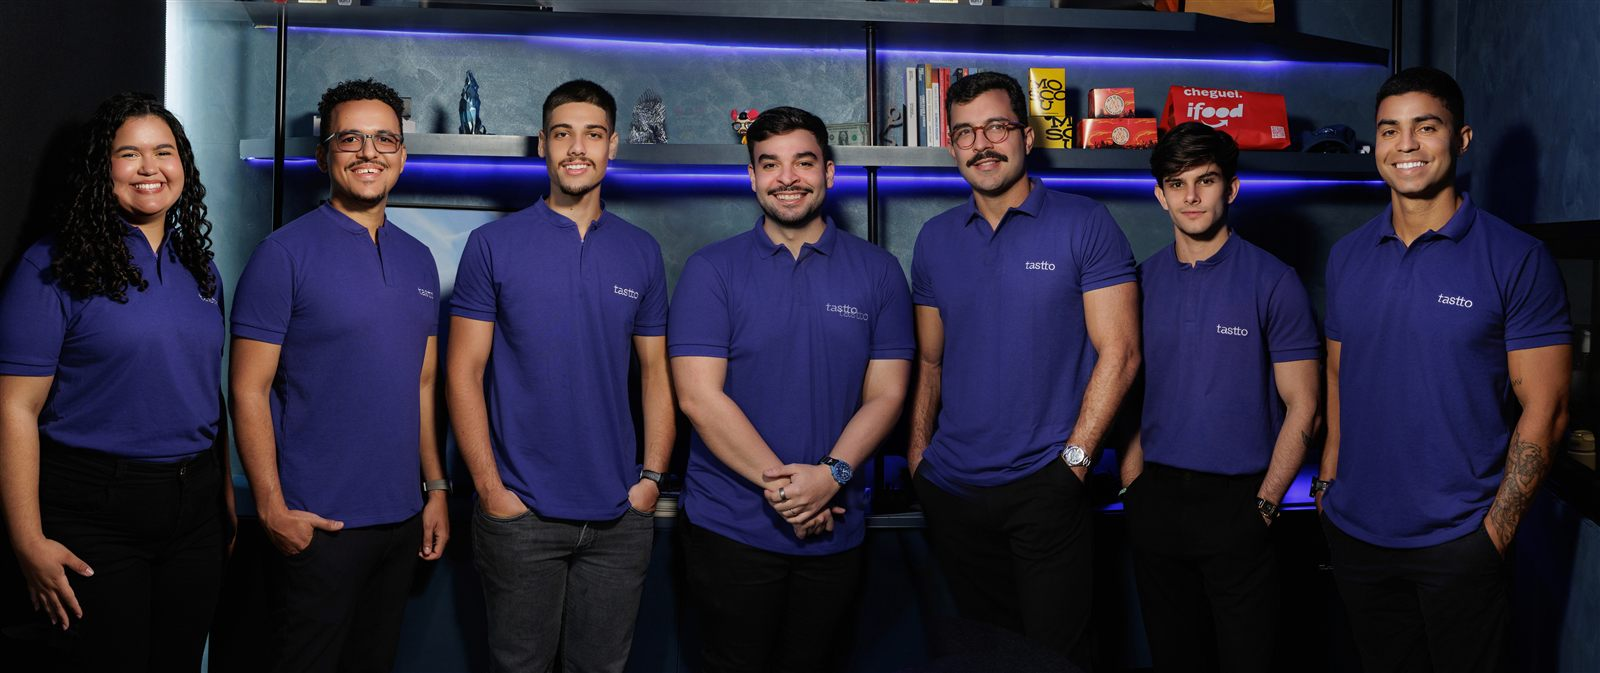
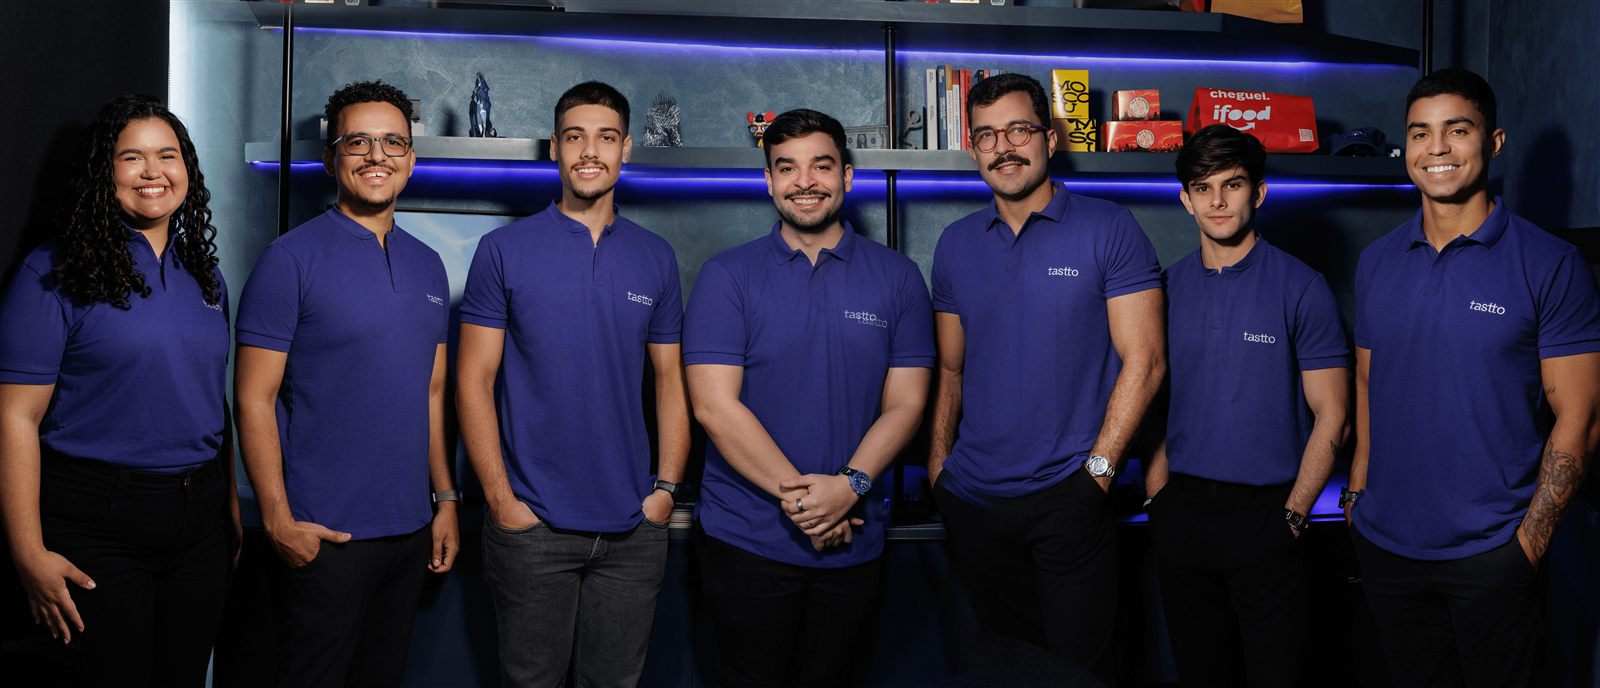
Quem somos em box, com a foto nova do Framer

diff --git a/styles.css b/styles.css
@@ -368,22 +368,30 @@ main { overflow-x: clip; }
 
 /* ---------- Quem somos ---------- */
 
-.quem-somos { padding: 105px 0 83px; }
+.quem-somos { padding: 70px 0 60px; }
 
-.quem-somos-grid {
+.quem-somos-box {
+  position: relative;
   display: grid;
-  grid-template-columns: 528px 449px;
-  align-items: start;
-  gap: 88px;
+  grid-template-columns: minmax(0, 1.15fr) minmax(0, 1fr);
+  align-items: center;
+  gap: 48px;
+  padding: 48px;
+  border: 1px solid rgba(255, 255, 255, 0.08);
+  border-radius: 40px;
+  background:
+    radial-gradient(60% 90% at 100% 0%, rgba(144, 144, 224, 0.14), transparent 70%),
+    rgba(144, 144, 224, 0.05);
+  overflow: hidden;
 }
 
 .quem-somos-foto {
-  border-radius: 17px;
+  border-radius: 20px;
   overflow: hidden;
 }
 .quem-somos-foto img {
   width: 100%;
-  height: 238px;
+  aspect-ratio: 1600 / 688;
   object-fit: cover;
 }
 
@@ -393,7 +401,7 @@ main { overflow-x: clip; }
   display: flex;
   flex-direction: column;
   gap: 20.8px;
-  margin-top: 12px;
+  margin-top: 16px;
   font-family: "DM Sans", sans-serif;
   font-size: 16px;
   line-height: 20.8px;
@@ -638,9 +646,8 @@ main { overflow-x: clip; }
 }
 
 @media (max-width: 1100px) {
-  .quem-somos-grid { grid-template-columns: minmax(0, 1fr); gap: 40px; }
+  .quem-somos-box { grid-template-columns: minmax(0, 1fr); gap: 32px; }
   .quem-somos-info { max-width: 560px; }
-  .quem-somos-foto img { height: auto; aspect-ratio: 528 / 238; }
 }
 
 @media (max-width: 760px) {
@@ -653,7 +660,8 @@ main { overflow-x: clip; }
   .hero-sub { font-size: 17px; line-height: 25px; margin-top: 28px; }
   .logos-track img { width: 110px; height: 110px; }
   .section { padding: 80px 0; }
-  .quem-somos { padding: 60px 0; }
+  .quem-somos { padding: 40px 0; }
+  .quem-somos-box { padding: 20px 20px 28px; border-radius: 28px; }
   .section-title { font-size: 32px; line-height: 36px; }
   .card { flex-basis: 280px; }
   .carousel-arrow { display: none; }

diff --git a/index.html b/index.html
@@ -117,16 +117,18 @@
   </section>
 
   <section class="section quem-somos" id="quem-somos">
-    <div class="container quem-somos-grid">
-      <figure class="quem-somos-foto">
-        <img src="assets/equipe.jpg" alt="Equipe da Tastto" loading="lazy">
-      </figure>
-      <div class="quem-somos-info">
-        <p class="eyebrow">EQUIPE</p>
-        <h2 class="section-title light">Quem <span class="purple">somos</span></h2>
-        <div class="quem-somos-text">
-          <p>Somos a Tastto, um time especializado em crescimento para restaurantes. Juntamos estratégia, dados, mídia, CRM e relacionamento para tirar o restaurante do achismo.</p>
-          <p>Não trabalhamos à distância. Estamos nos salões, nas cozinhas e nos eventos do food service, conversando com quem opera o restaurante todos os dias.</p>
+    <div class="container">
+      <div class="quem-somos-box">
+        <figure class="quem-somos-foto">
+          <img src="assets/equipe.jpg" alt="Equipe da Tastto" loading="lazy">
+        </figure>
+        <div class="quem-somos-info">
+          <p class="eyebrow">EQUIPE</p>
+          <h2 class="section-title light">Quem <span class="purple">somos</span></h2>
+          <div class="quem-somos-text">
+            <p>Somos a Tastto, um time especializado em crescimento para restaurantes. Juntamos estratégia, dados, mídia, CRM e relacionamento para tirar o restaurante do achismo.</p>
+            <p>Não trabalhamos à distância. Estamos nos salões, nas cozinhas e nos eventos do food service, conversando com quem opera o restaurante todos os dias.</p>
+          </div>
         </div>
       </div>
     </div>
